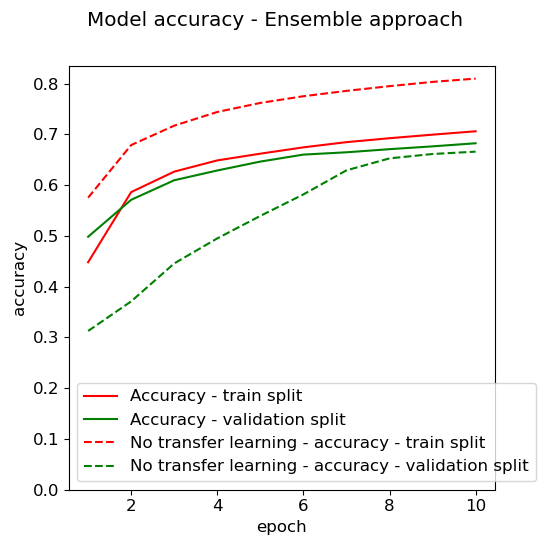
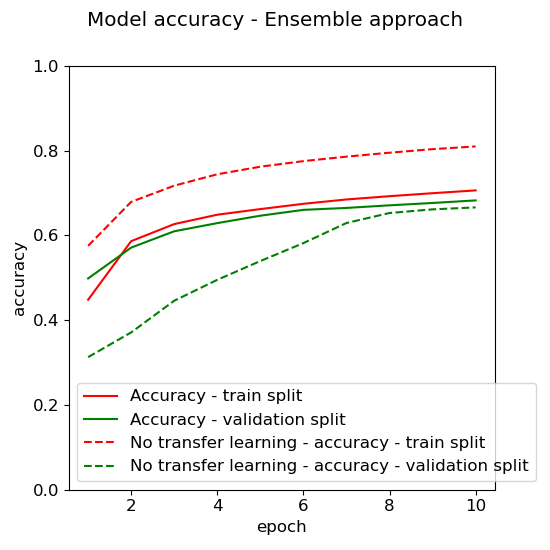
params vs acc

diff --git a/src/results/ensemble/get_metrics_per_epoch.py b/src/results/ensemble/get_metrics_per_epoch.py
@@ -1,6 +1,7 @@
 import os
 from typing import Dict
 
+import matplotlib.pyplot as plt
 from mlflow.entities import Run
 from results.utils import Results
 
@@ -35,6 +36,30 @@ class EnsembleResults(Results):
         }
         return mapping[text]
 
+    def source_acc_vs_accuracy(self) -> dict:
+        results_ = self.first_experiment_runs
+        acc_pairs = [
+            (
+                float(
+                    results_[dataset].data.params[
+                        "Mean accuracy of models used for ensemble"
+                    ]
+                ),
+                results_[dataset].data.metrics["val_accuracy"],
+            )
+            for dataset in self.datasets
+        ]
+        figure, ax = plt.subplots(figsize=(5.5, 5.5))
+        plt.scatter(*list(zip(*acc_pairs)), s=8)
+        figure.suptitle("Validation accuracy versus mean accuracy of source models")
+        ax.set_ylabel("Accuracy - validation split")
+        ax.set_xlabel("Mean accuracy of source models used int he ensemble")
+        plt.ylim([0, 1])
+        plt.xlim([0, 1])
+        ax.set_aspect("equal")
+        plt.savefig(os.path.join(self.results_root_path, "source_acc_vs_val.png"))
+        plt.close(figure)
+
 
 results = EnsembleResults(
     first_experiment_id="554900821027531839",
@@ -45,3 +70,5 @@ results.get_mean_loss_acc_per_epoch("loss")
 results.get_mean_loss_acc_per_epoch("acc")
 results.win_tie_loss_diagram(epoch=10)
 results.win_tie_loss_diagram(epoch=5)
+results.dba_vs_accuracy()
+results.source_acc_vs_accuracy()

diff --git a/src/results/utils.py b/src/results/utils.py
@@ -150,8 +150,11 @@ class Results(metaclass=ABCMeta):
         figure.suptitle(f"Model {full_metric_name} - {self.approach_name} approach")
         ax.set_ylabel(full_metric_name)
         ax.set_xlabel("epoch")
+        if metric == "loss":
+            plt.ylim(bottom=0)
+        else:
+            plt.ylim([0, 1])
         ax.legend()
-        plt.ylim(bottom=0)
         plt.savefig(os.path.join(self.results_root_path, f"{metric}.png"))
         plt.close(figure)
 
@@ -237,3 +240,24 @@ class Results(metaclass=ABCMeta):
             "color": "red" if "train" in metric_name else "green",
             "linestyle": "--" if "no transfer" in metric_name.lower() else "-",
         }
+
+    def dba_vs_accuracy(self) -> dict:
+        results = self.first_experiment_runs
+        sim_acc_pairs = [
+            (
+                results[dataset].data.metrics["Mean DBA similarity"],
+                results[dataset].data.metrics["val_accuracy"],
+            )
+            for dataset in self.datasets
+        ]
+        figure, ax = plt.subplots(figsize=(5.5, 5.5))
+        plt.scatter(*list(zip(*sim_acc_pairs)), s=8)
+        figure.suptitle("Accuracy versus mean DBA similarity of source datasets")
+        ax.set_ylabel("Accuracy - validation split")
+        ax.set_xlabel("Mean DBA similarity of source datasets to target dataset")
+        plt.ylim([0, 1])
+        plt.xscale("log")
+        plt.savefig(
+            os.path.join(self.results_root_path, "accuracy_vs_mean_dba_sim.png")
+        )
+        plt.close(figure)
